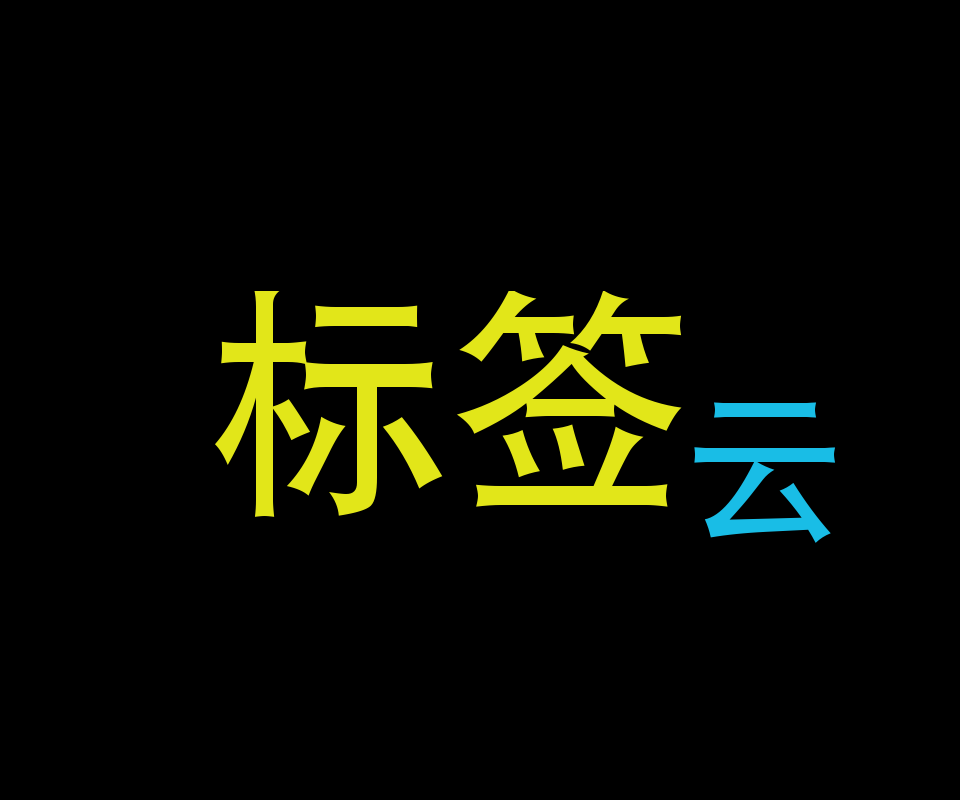
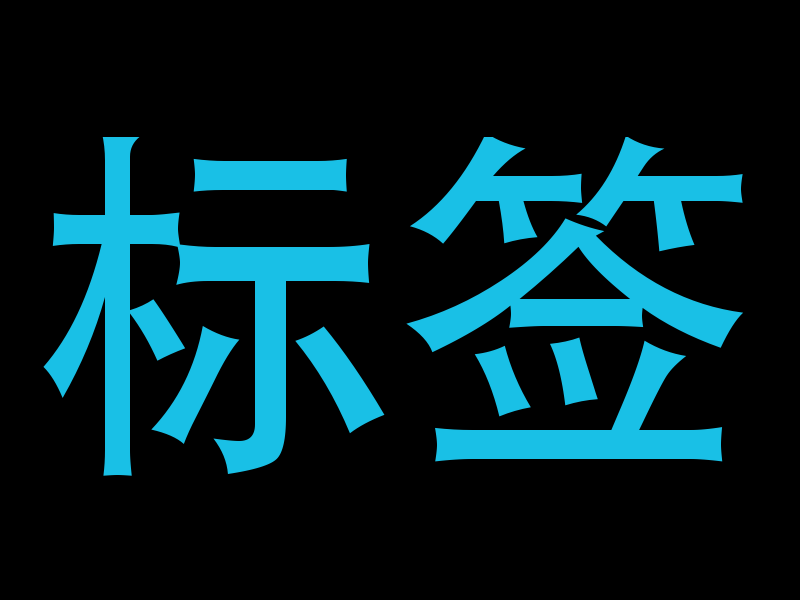
update the figure

Changed region(s): [[0.0312, 0.21, 0.9375, 0.81], [0.2188, 0.24, 0.4375, 0.33]]

diff --git a/simple2.py b/simple2.py
@@ -5,8 +5,8 @@ import easywordcloud
 
 d = path.dirname(__file__)
 
-width = 960
-height = 800
+width = 800
+height = 600
 best_elements = None
 best_score = 0
 
@@ -23,7 +23,7 @@ easywordcloud.draw_word_cloud(words, width, height, path.join(d, 'examples/alice
 
 #test case 3
 words = [(u'ワード', 0.7), (u'クラウド', 0.6)]
-easywordcloud.draw_word_cloud(words, width, height, path.join(d, 'examples/japannese.png'), '/Library/Fonts/Andale Mono.ttf')
+easywordcloud.draw_word_cloud(words, width, height, path.join(d, 'examples/japanese.png'), '/Library/Fonts/Andale Mono.ttf')
 
 
 words = [(u'标签', 3), (u'云', 2)]

diff --git a/README.md b/README.md
@@ -60,9 +60,9 @@ output:
 ⋅⋅* Japanness
 ```python
 words = [(u'ワード', 0.7), (u'クラウド', 0.6)]
-easywordcloud.draw_word_cloud(words, width, height, 'examples/japannese.png', None)
-`output:
-![japanese](examples/japanese.png)``
+easywordcloud.draw_word_cloud(words, width, height, 'examples/japanese.png', None)
+```output:
+![japanese](examples/japanese.png)
 
 NOTE: **MAKE SURE THE FONT COVERS THE CHARACTERS YOU WANT TO DISPLAY**
 
